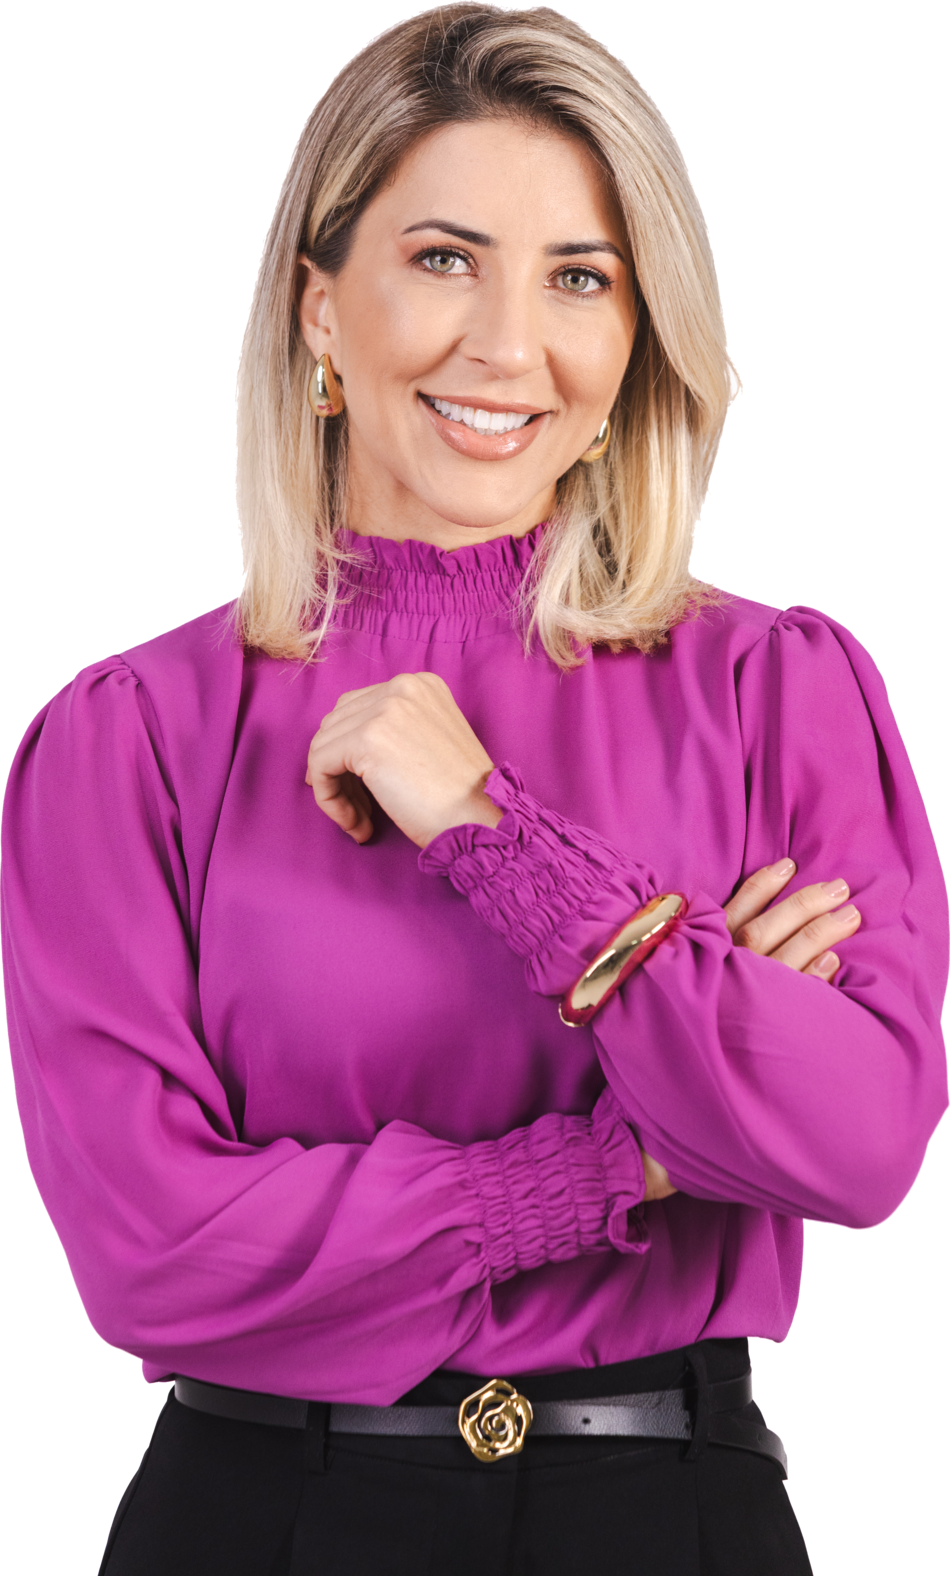
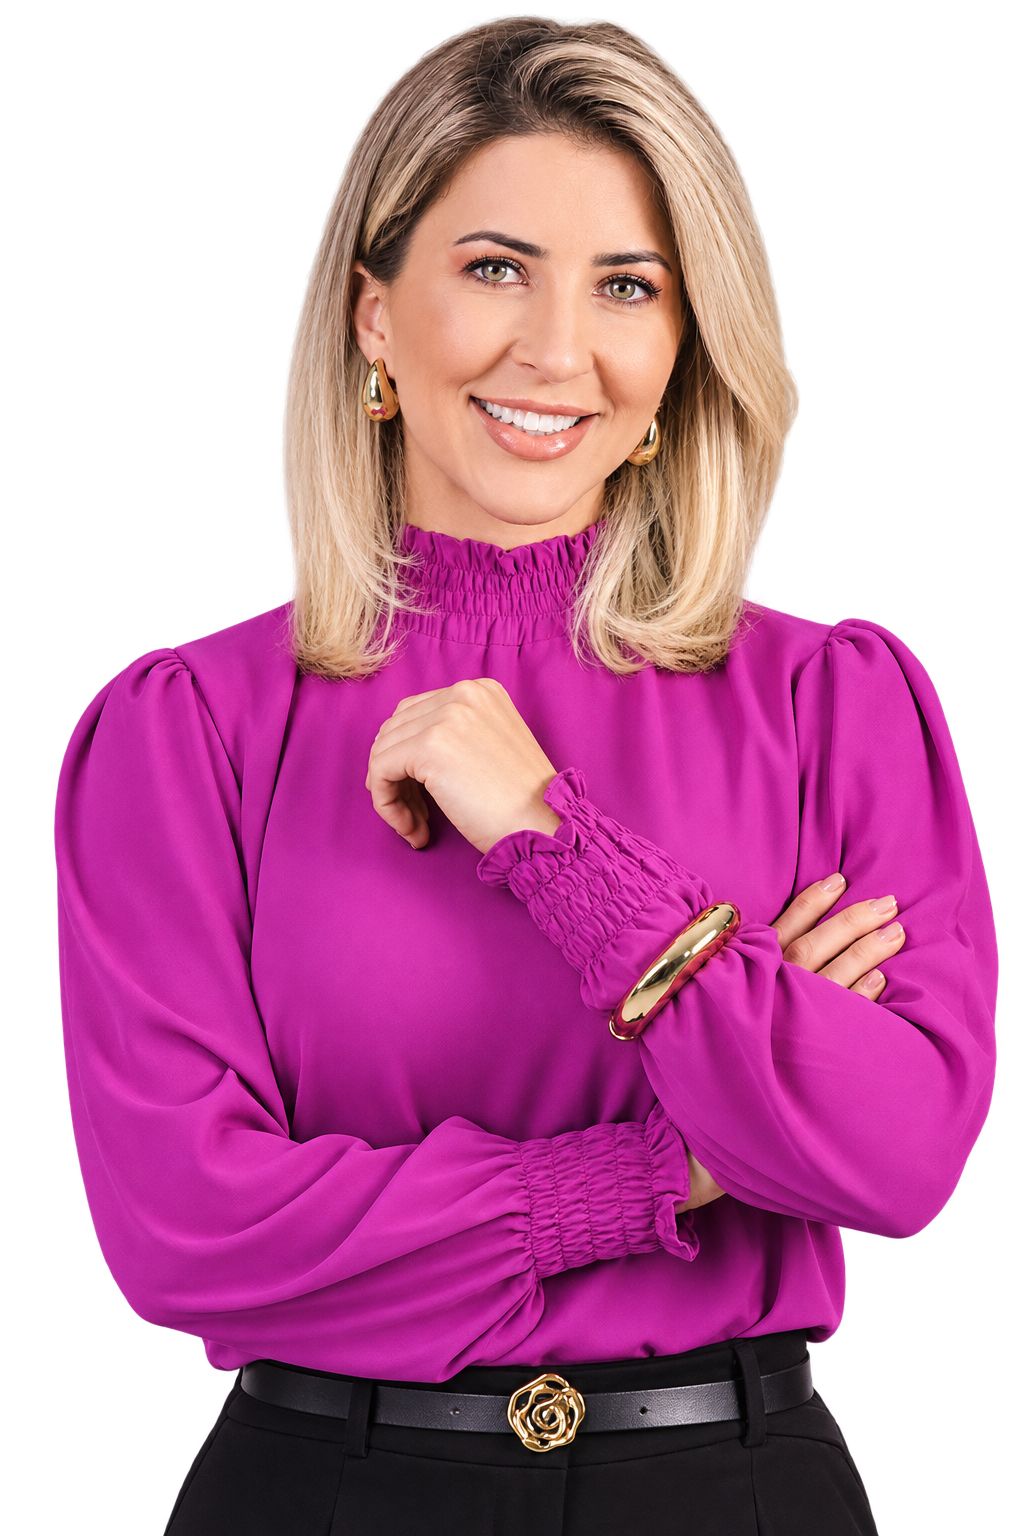
Ajustes de responsividade mobile e nova foto do hero
Corrige overflow do header em telas estreitas e na faixa 720-960px
(logo quebrava linha e estourava a altura da barra), corrige tabela
de cookies estourando a largura na página de privacidade, e atualiza
a foto do hero para a versão com fundo escuro e brilho rosa.

diff --git a/privacidade.html b/privacidade.html
@@ -79,12 +79,14 @@
       </ul>
 
       <h2>5. Cookies usados nesta página</h2>
-      <table class="tabela-cookies">
-        <tr><th>Categoria</th><th>Finalidade</th><th>Pode recusar?</th></tr>
-        <tr><td>Necessários</td><td>Guardar sua escolha de cookies neste dispositivo. Não rastreiam navegação.</td><td>Não — são o mínimo para a página funcionar</td></tr>
-        <tr><td>Analytics (Google Analytics)</td><td>Medir visitas e uso da página, de forma agregada.</td><td>Sim</td></tr>
-        <tr><td>Marketing (Meta Pixel)</td><td>Medir e otimizar anúncios da campanha em Facebook/Instagram.</td><td>Sim</td></tr>
-      </table>
+      <div class="tabela-scroll">
+        <table class="tabela-cookies">
+          <tr><th>Categoria</th><th>Finalidade</th><th>Pode recusar?</th></tr>
+          <tr><td>Necessários</td><td>Guardar sua escolha de cookies neste dispositivo. Não rastreiam navegação.</td><td>Não — são o mínimo para a página funcionar</td></tr>
+          <tr><td>Analytics (Google Analytics)</td><td>Medir visitas e uso da página, de forma agregada.</td><td>Sim</td></tr>
+          <tr><td>Marketing (Meta Pixel)</td><td>Medir e otimizar anúncios da campanha em Facebook/Instagram.</td><td>Sim</td></tr>
+        </table>
+      </div>
 
       <h2>6. Com quem compartilhamos dados</h2>
       <p>A campanha de Emily Rosane Pereira é a <strong>controladora</strong> desses dados: é quem decide quais categorias de cookies existem e para qual finalidade. Quando você autoriza, os dados de navegação são processados por Google e Meta como <strong>operadoras</strong>, tratando os dados apenas dentro dos limites técnicos definidos por essa finalidade e segundo os próprios termos de uso e políticas de privacidade de cada empresa. Qualquer solicitação sobre os seus dados deve ser feita à campanha, pelo canal indicado na Seção 1 — a campanha permanece responsável perante você mesmo quando o tratamento técnico é feito por essas plataformas.</p>

diff --git a/style.css b/style.css
@@ -552,10 +552,16 @@ h1, h2, h3 {
 .politica li { color: var(--cinza-texto); margin-bottom: 8px; font-size: 0.98rem; }
 .politica a { color: var(--emily-blue); }
 
+.tabela-scroll {
+  overflow-x: auto;
+  -webkit-overflow-scrolling: touch;
+  margin-bottom: 20px;
+}
+
 .tabela-cookies {
   width: 100%;
+  min-width: 480px;
   border-collapse: collapse;
-  margin-bottom: 20px;
   font-size: 0.88rem;
 }
 .tabela-cookies th, .tabela-cookies td {
@@ -696,11 +702,18 @@ h1, h2, h3 {
   .placar-item { border-left: none; border-top: 3px solid var(--emily-blue); padding-left: 0; padding-top: 10px; }
 }
 
-@media (max-width: 720px) {
+@media (max-width: 960px) {
+  .header-inner { height: auto; min-height: 76px; padding: 12px 0; }
+
+  .logo { gap: 6px; flex-wrap: wrap; }
+  .logo-kicker { font-size: 0.62rem; flex-basis: 100%; }
+  .logo-text { font-size: 1.15rem; white-space: nowrap; }
+  .logo-number { font-size: 0.8rem; padding: 2px 7px; }
+
   .main-nav {
     display: none;
     position: absolute;
-    top: 76px;
+    top: 100%;
     left: 0;
     right: 0;
     background: var(--emily-blue);
@@ -711,4 +724,9 @@ h1, h2, h3 {
   .main-nav.open { display: flex; }
   .nav-toggle { display: flex; }
   .btn-nav { display: none; }
+}
+
+@media (max-width: 400px) {
+  .logo-kicker { display: none; }
+  .logo-text { font-size: 1rem; }
 }
